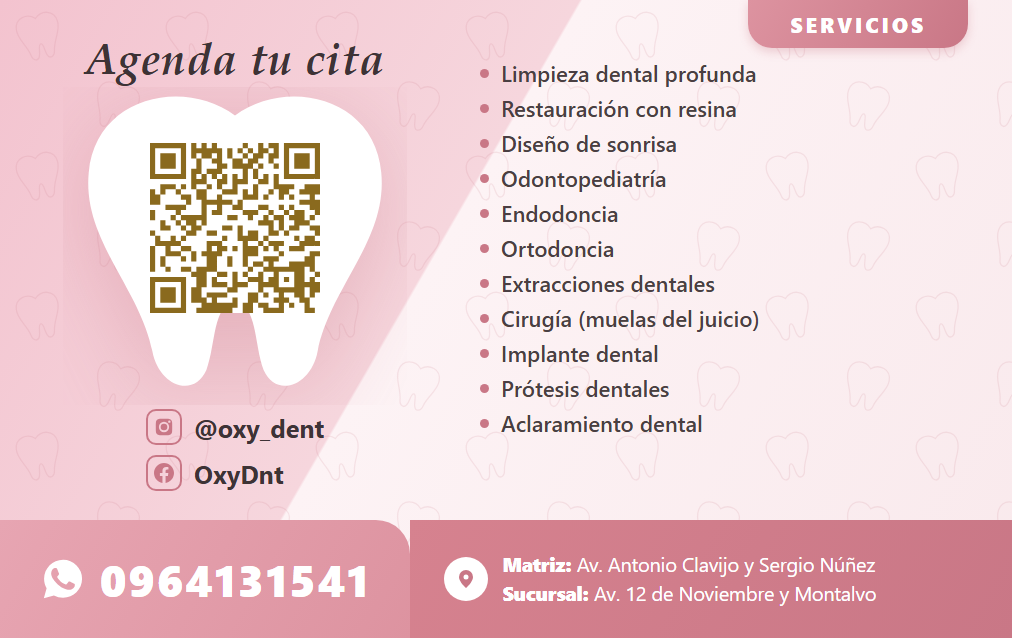
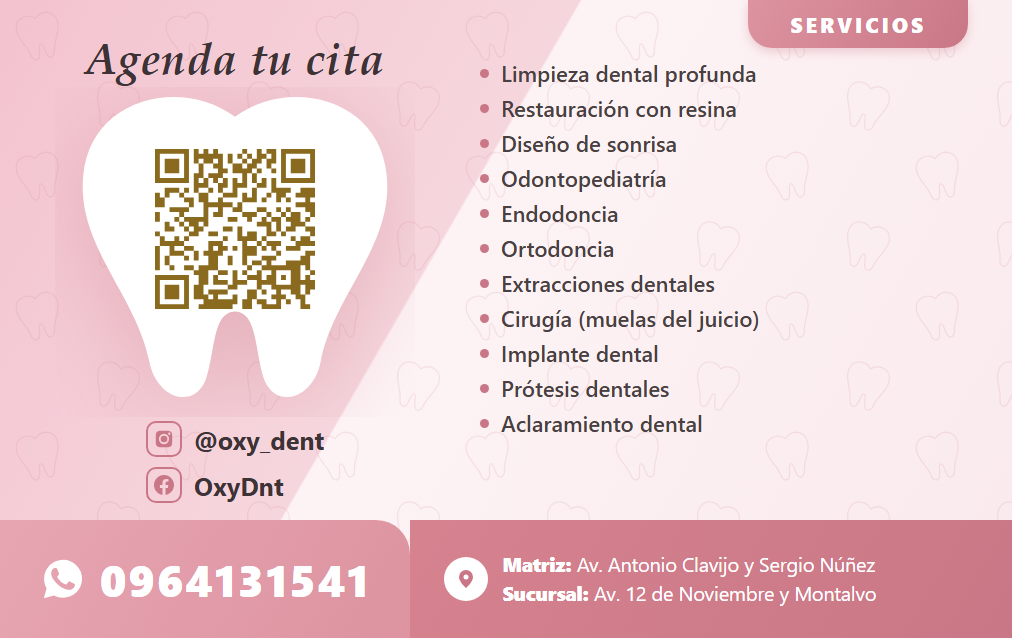
Encuadre fino del QR dentro del diente

diff --git a/nfc/nfc-posterior-v3.html b/nfc/nfc-posterior-v3.html
@@ -13,9 +13,9 @@ body{width:1012px;height:638px;overflow:hidden;font-family:'Segoe UI',sans-serif
 /* columna izquierda */
 .left{position:absolute;left:0;top:0;bottom:118px;width:470px;text-align:center}
 .script{font-family:'Palatino Linotype',Georgia,serif;font-style:italic;font-weight:700;font-size:44px;color:#3d3336;margin-top:28px;letter-spacing:1px}
-.toothqr{position:relative;width:344px;height:318px;margin:0 auto 0}
+.toothqr{position:relative;width:360px;height:330px;margin:0 auto 0}
 .toothqr svg.shape{position:absolute;inset:0;width:100%;height:100%}
-.toothqr .qr{position:absolute;top:56px;left:87px;width:170px;height:170px}
+.toothqr .qr{position:absolute;top:62px;left:100px;width:160px;height:160px;background:#fff;padding:0}
 .toothqr .qr svg{width:100%;height:100%}
 .socials{margin-top:4px;text-align:left;display:inline-block}
 .socials div{display:flex;align-items:center;gap:12px;font-size:25px;font-weight:700;color:#3d3336;margin-bottom:10px}
